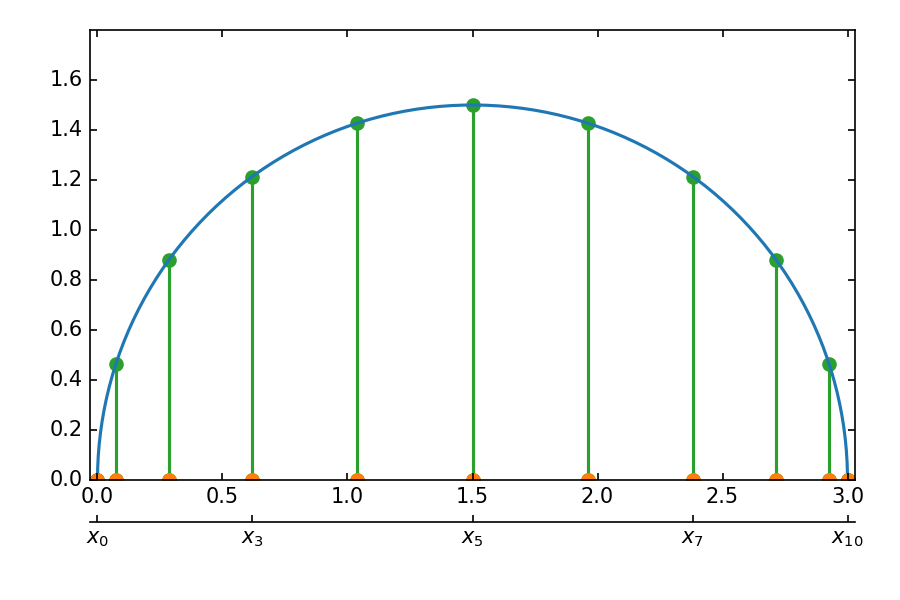
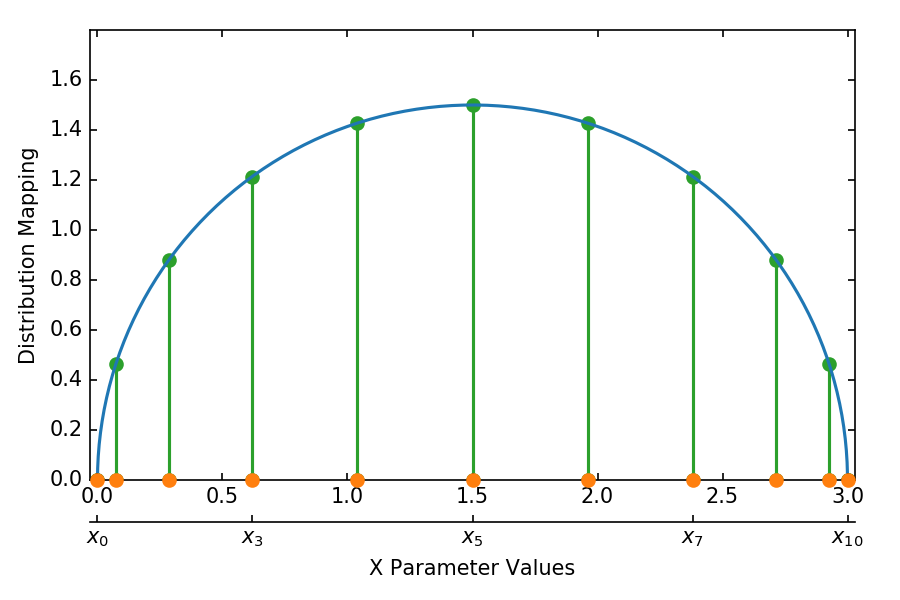
Fix typos, update image

diff --git a/docs/source/parameters.rst b/docs/source/parameters.rst
@@ -42,7 +42,7 @@ EXAMPLES:
 What about adding reference of env block in pgen? (not modifying, just referencing)
 
 
-First, lets use the excellent built in package itertools to generate the parameters in the lulesh example specification:
+First, lets use the excellent built-in package itertools to progammatically generate the parameters in the lulesh example specification:
 
 .. code-block:: python
    :name: itertools_pgen.py
@@ -109,7 +109,7 @@ There is an additional pgen feature that can be used to make them more dynamic. 
 
 .. code-block:: bash
 
-   $ maestro run study.yaml --pgen itertools_pgen_pargs.py --parg "SIZE_MIN:10" --parg "SIZE_STEP: 10" --parg "NUM_SIZES:4"
+   $ maestro run study.yaml --pgen itertools_pgen_pargs.py --parg "SIZE_MIN:10" --parg "SIZE_STEP:10" --parg "NUM_SIZES:4"
 
 Each argument is a string in key:val form, which can be accessed in the generator function as shown below:
 
@@ -223,6 +223,6 @@ Running this parameter generator with the following pargs
 
    $ maestro run study.yaml --pgen np_cheb_pgen.py --parg "X_MIN:0" --parg "X_MAX:3" --parg "NUM_PTS:11"
 
-Results in the following distribution of points for the ``X`` parameter:
+results in the 1D distribution of points for the ``X`` parameter shown by the orange circles:
 
 .. image:: pgen_images/cheb_map.png
